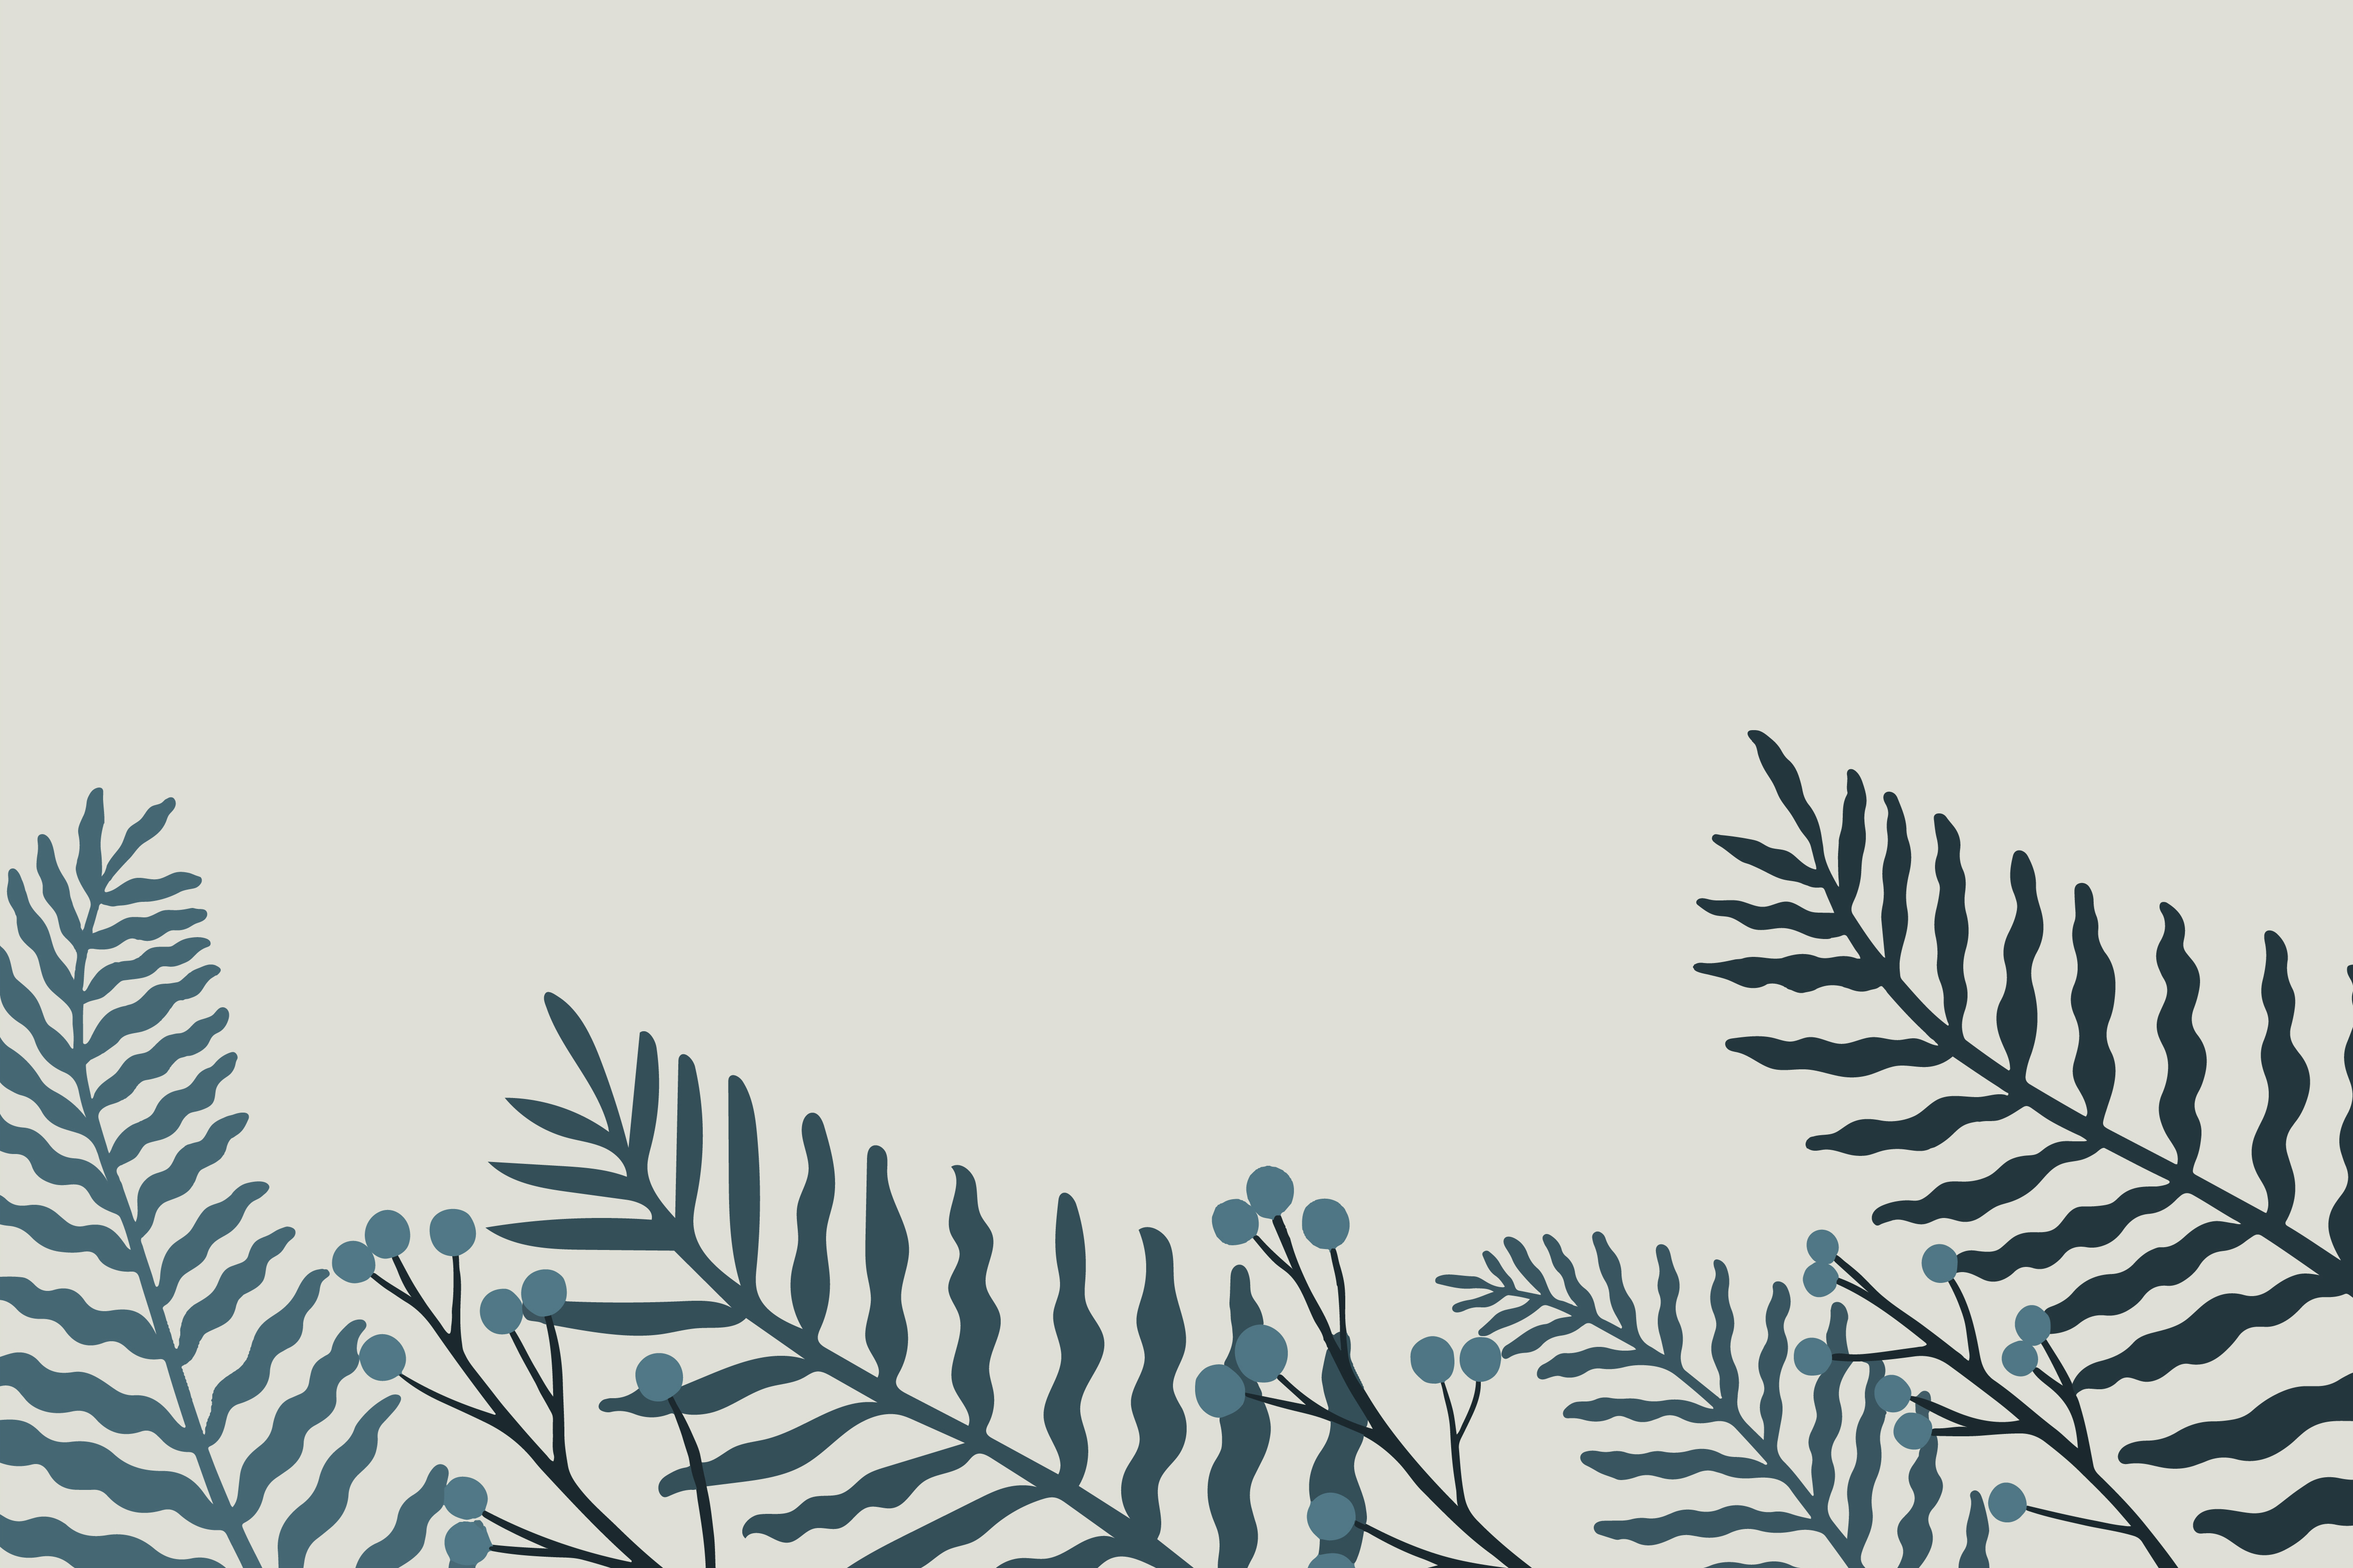
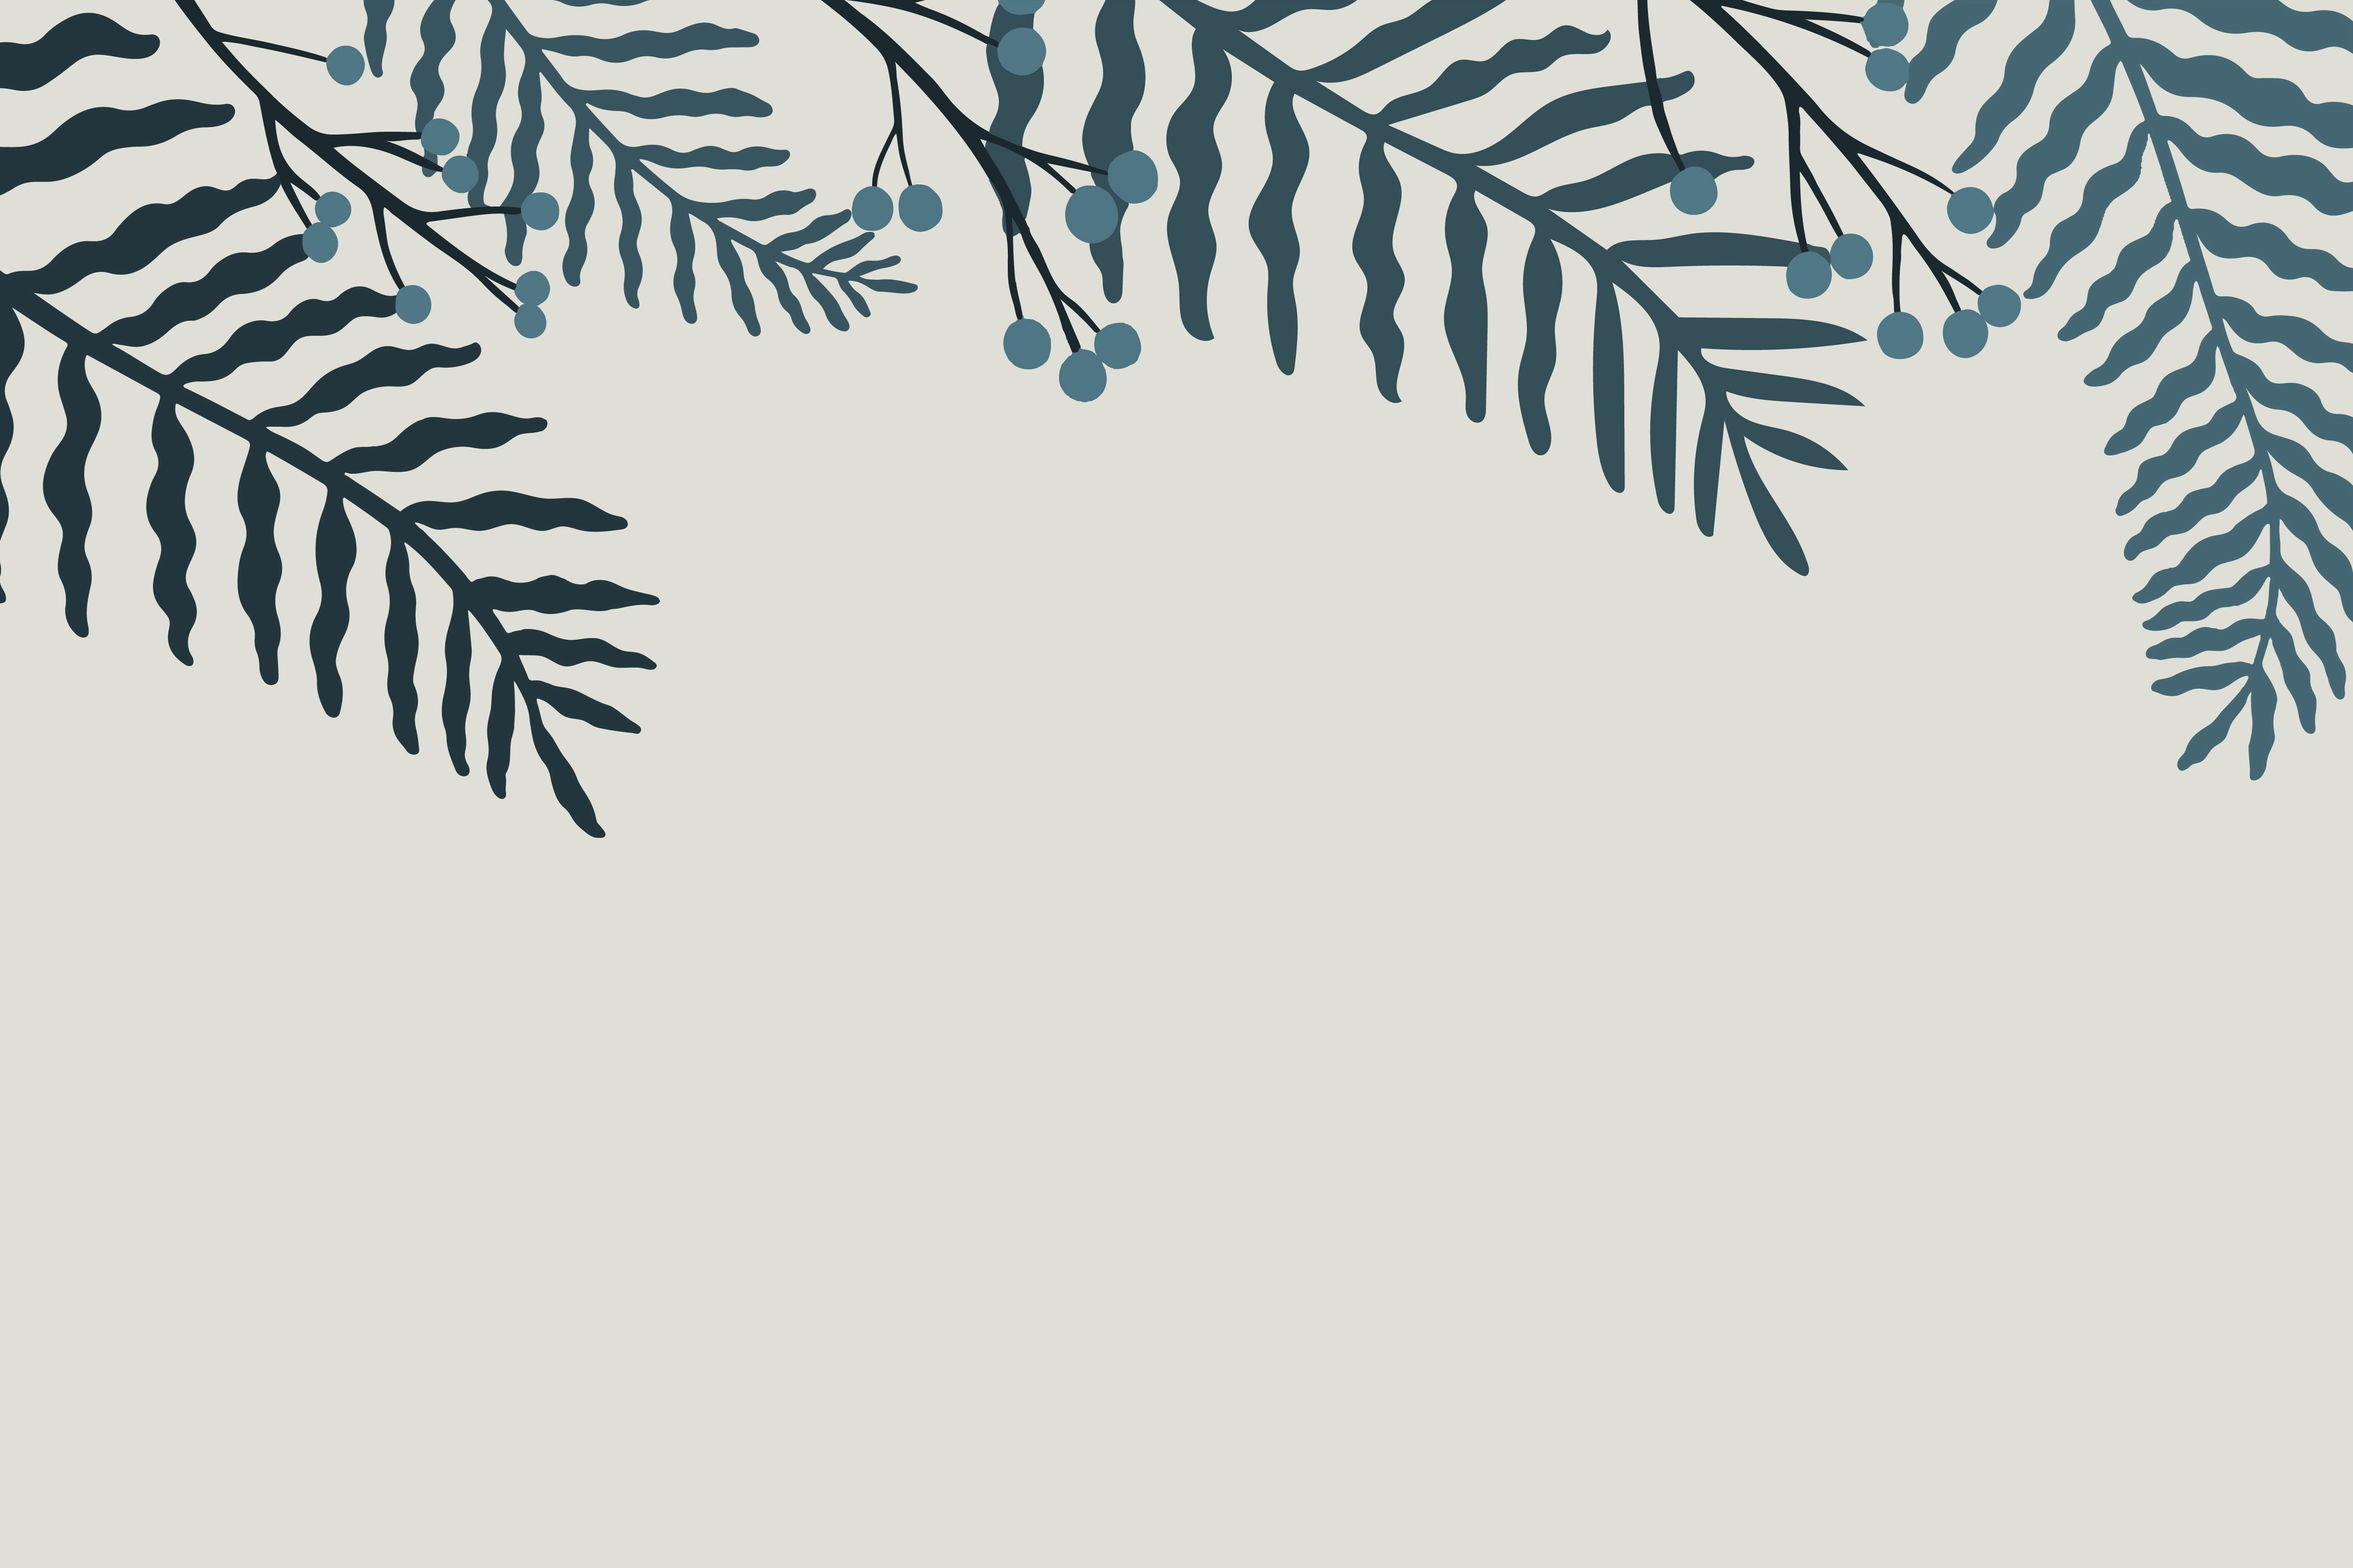
edited projects and reviews bg

Changed region(s): [[0.0, 0.468, 1.0, 1.0], [0.0, 0.0, 1.0, 0.5305]]

diff --git a/src/containers/projects/projects.css b/src/containers/projects/projects.css
@@ -1,17 +1,19 @@
 .project__container{
     display: flex;
-    margin: 5em ;
-  
+    margin: 0 ;
+  background: #1e241c;
     margin-bottom: 0;
     justify-content: center;
     flex-direction: column;
+    
 }
 .project__title{
     text-align: center;
     font-family: canela;
     align-self: center;
     margin: 4rem;
-    margin-top: 0;
+    margin-top: 5em;
+ 
    
     
 }
@@ -21,7 +23,7 @@
     flex-direction: row;
     justify-content: center;
   
-    
+    margin-bottom: 5em;
 }
 .card {
     height: 350px;
@@ -173,7 +175,7 @@
 
     .project__title{
     
-        margin: 0;
+        margin-top: 5rem;
       
      
     }
@@ -191,8 +193,8 @@
     }
     .project__title{
     
-        margin: 5rem;
-        margin-top: 0;
+   
+        margin-top: 5rem;
      
     }
 

diff --git a/src/containers/reviews/reviews.css b/src/containers/reviews/reviews.css
@@ -1,14 +1,19 @@
 .reviews-container{
-
+    border-top: 20px solid #2D322B;
     display: flex;
     justify-content: center;
     flex-direction: column;
-  
+    background: #f5f1f0 ;
+    background-repeat: repeat;
+    background-size: cover;
+ 
     
+   
 }
 .review-title{
     text-align: center;
     font-family: canela;
     align-self: center;
-    margin-top: 4rem;
+    margin-top: 6rem;
+    color: #2D322B;
 }

diff --git a/src/components/brands/brands.css b/src/components/brands/brands.css
@@ -5,7 +5,7 @@
     justify-content: center;
     align-items: center;
   
-    background: #E3DFD6;
+    background:  #f5f1f0;
     max-width: 100%;
  
 }
@@ -39,10 +39,10 @@ img{
    .brands__container{
 
    margin: 0;
-    transform: scale(0.5);
+   
     flex-direction: row;
     flex-wrap: wrap;
-    border-radius: 30px;
+  
    }
    .brand{
    margin:2rem ;

diff --git a/src/containers/footer/Footer.jsx b/src/containers/footer/Footer.jsx
@@ -2,7 +2,7 @@ import './footer.css';
 
 const Footer = () => {
     return ( <div>
-        <p className='footerText'>BUILT BY AKWUNTE AMALI</p>
+        <p className='footerText'>BUILT BY AKWUNTE AMALI.</p>
     </div> );
 }
  

diff --git a/src/components/swipe/swipe.css b/src/components/swipe/swipe.css
@@ -3,7 +3,6 @@
     background-size: cover;
     background-repeat: no-repeat;
     margin-top: 100px;
-    margin-bottom: 100px;
     padding-top: 100px;
     padding-bottom: 100px;
     border-top: 20px solid #1e241c;

diff --git a/src/containers/footer/footer.css b/src/containers/footer/footer.css
@@ -2,4 +2,5 @@
     display: flex;
     justify-content: center;
     margin-bottom: 5rem;
+    margin-top: 5rem;
 }
